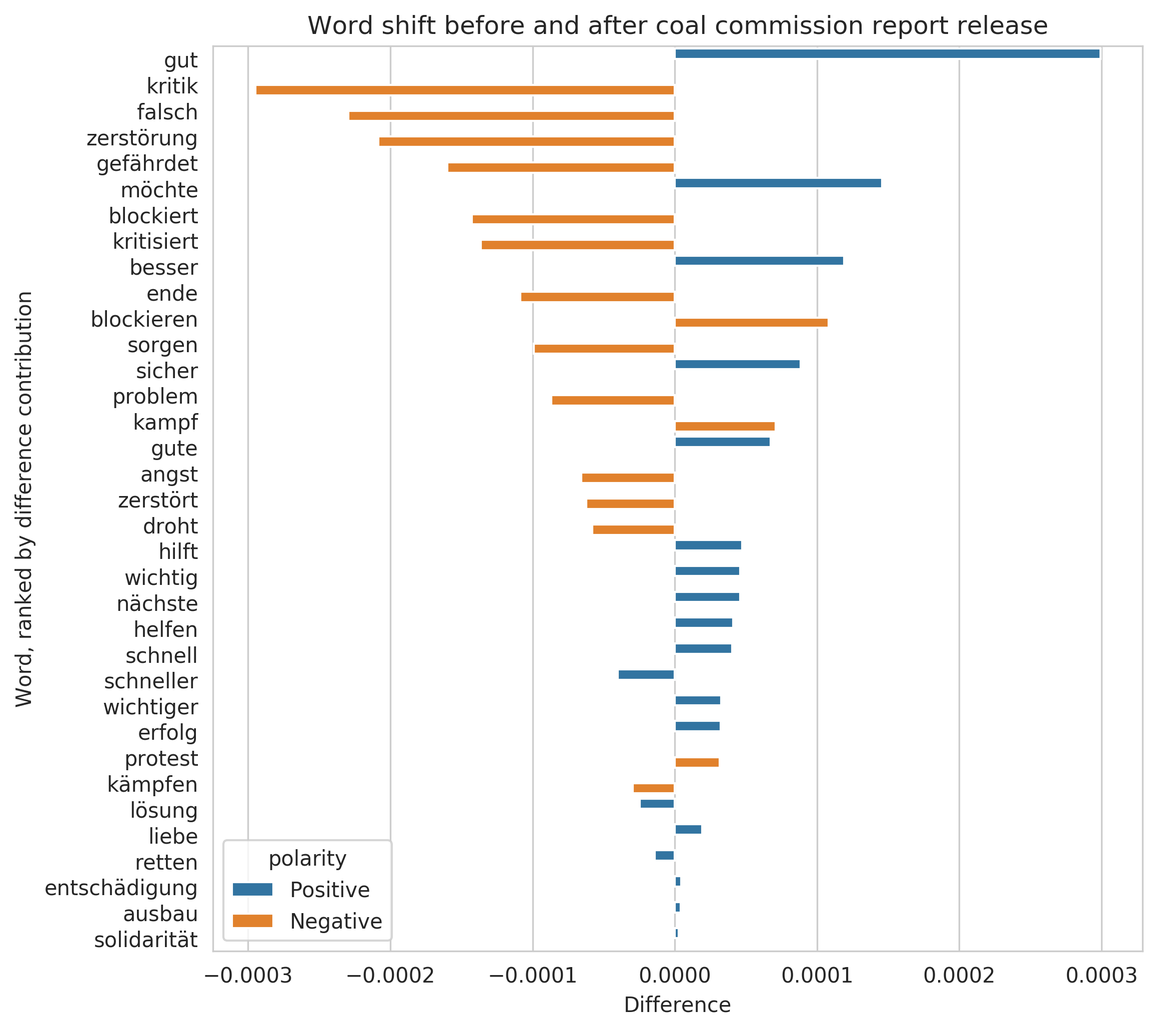
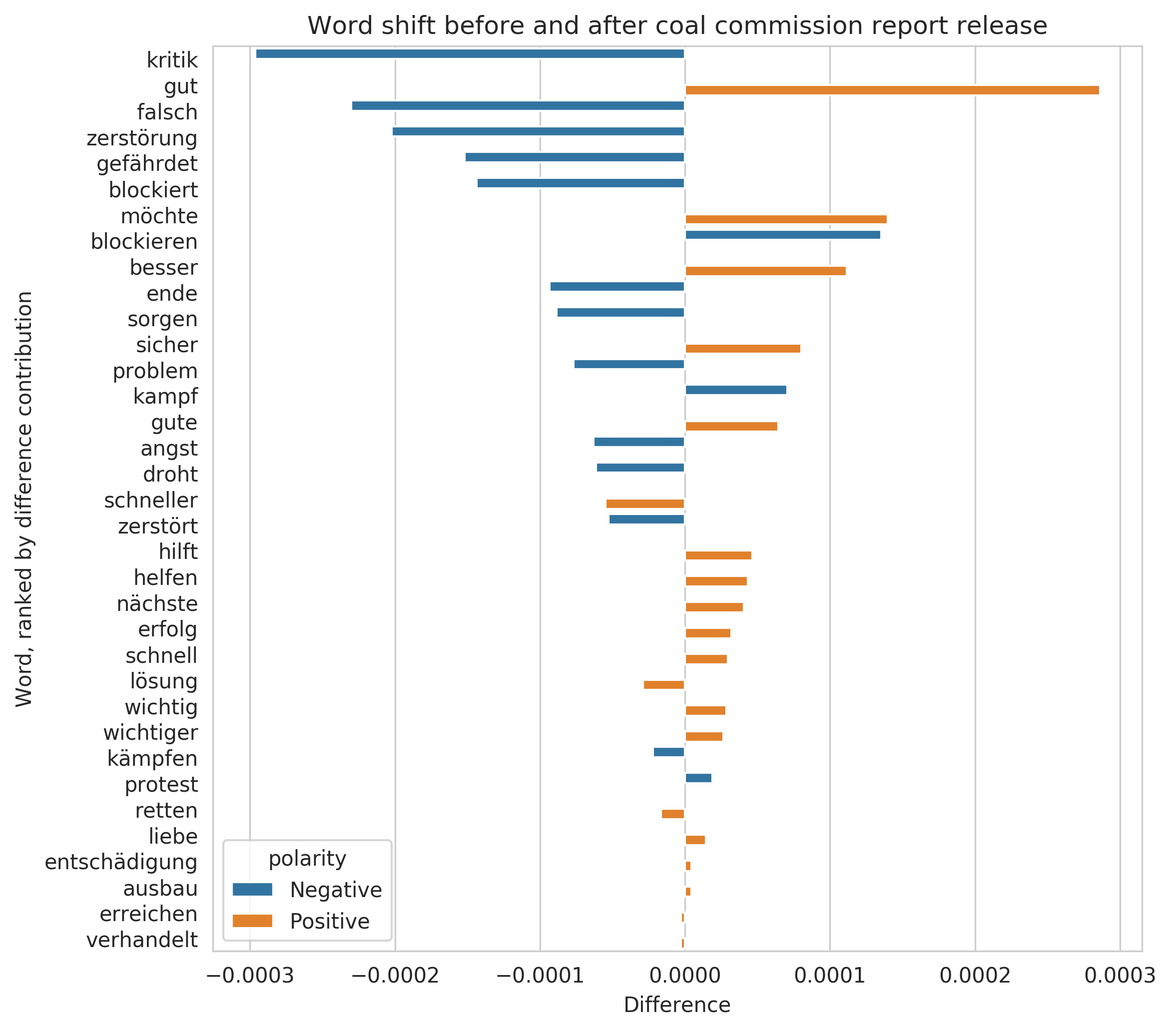
update writing

diff --git a/writing/4_analysis/analysis.tex b/writing/4_analysis/analysis.tex
@@ -5,6 +5,7 @@
 \usepackage{setspace}
 \usepackage{gensymb}
 \usepackage{csquotes}
+\usepackage{xcolor}
 
 \title{The German Coal Debate on Twitter: Reactions to a Corporate Decision-Making Policy Process}
 
@@ -202,18 +203,24 @@ Equation \ref{eq:text_difference} shows the difference between the normalised sc
 	\label{fig:tweet_score}
 \end{figure}
 
-Fig. \ref{fig:tweet_count_event_timeline} shows the daily count of tweets throughout the coal commission process against events throughout the same process. Fig. \ref{fig:tweet_score} shows the 7 day moving average of tweet scores in the coal and climate datasets. 
-
 \subsection*{Sentiment scores against time} 
-% [T: 750, C: 690]
-% overall trend negative
-Looking at Fig. \ref{fig:tweet_score}, the first observation that can be drawn is that the average sentiment scores of both coal and climate tweets decrease over time. For most of 2017, the average score of coal and climate tweets hover around zero. This average for the climate tweets starts to decrease from the beginning of 2018, and steadily declines throughout the process of the coal commission, and remains constant around -0.025 even after the conclusion of the coal commission process. For the coal tweets, the average drops from the beginning of 2018 and remains constant around the -0.025 score as well. This suggests that the language used in both coal and climate discussions become more negative over time, of which the coal commission could have had an effect on. 
+% [T: 900, C: 750]
+\subsubsection*{Negative trend} % overall trend negative
+Fig. \ref{fig:tweet_score} shows the 7 day moving average of tweet scores in the coal and climate datasets. Looking at Fig. \ref{fig:tweet_score}, the first observation that can be drawn is that the average sentiment scores of both coal and climate tweets decrease over time. For most of 2017, the average score of coal and climate tweets hover around zero. This average for the climate tweets starts to decrease from the beginning of 2018, and steadily declines throughout the process of the coal commission, and remains constant around -0.025 even after the conclusion of the coal commission process. For the coal tweets, the average drops from the beginning of 2018 and remains constant around the -0.025 score as well. 
 
-% similar before and after but not during 
-Another observation that can be made is that the shape of the coal and climate timeseries correlate quite well both before and after the process of the coal commission, but not during. Looking at Fig. \ref{fig:tweet_score}, by breaking down the dates into three periods -- i. January 2017 to December 2017, ii. January 2018 to April 2019 and iii. May 2019 to February 2020, the differences in the sentiment score timeseries can be dissected. The spikes in the coal and climate tweet sentiment scores follow quite closely to each other in the first period, as well as in the third. However, they differ greatly in the second period, largely due to the variation of scores in the coal debate. % add some numbers here to substantiate
+Regression analysis also shows that the two time series have a negative slope. The slope of the coal timeseries is $-1.91 \times 10^{-5}$ and the slope of the climate timeseries is $-2.64 \times 10^{-5}$. In order to perform linear regression on dates, the dates are first converted into ordinal numbers. This suggests that the language used in both coal and climate discussions become more negative over time, of which the coal commission could have had an effect on. 
+
+% linreg table?
+
+\subsubsection*{Variation in coal and climate scores} % similar before and after but not during 
+Another observation that can be made is that the shape of the coal and climate timeseries correlate quite well both before and after the process of the coal commission, but not during. Looking at Fig. \ref{fig:tweet_score}, by breaking down the dates into three periods -- i. January 2017 to December 2017, ii. January 2018 to April 2019 and iii. May 2019 to February 2020, the differences in the sentiment score timeseries can be dissected. The spikes in the coal and climate tweet sentiment scores follow quite closely to each other in the first period, as well as in the third. However, they differ greatly in the second period, largely due to the variation of scores in the coal debate. 
+% add some numbers here to substantiate
 
 % greater variation in coal compared to climate
-In addition to the timeseries trends, comparing the two sentiment score timeseries of coal and climate tweets, it can be seen that there is a larger variation in sentiment scores in the coal dataset compared to that of climate. This is evident across the entire time period of the dataset. Throughout 2017, the variation in climate scores is 0.057, compared to 0.116 in the scores of coal tweets. This difference increases in the period surrounding as well as during the coal commission process from January 2018 to April 2019, where the variation in climate tweet scores is 0.061, compared to 0.217 in the scores of coal tweets. The difference in variation of the tweet scores between the datasets declines after the coal commission process, with a variation of 0.048 in climate tweets and 0.096 in coal tweets from May 2019 to February 2020. % add something about there being more climate tweets and also how the variation is measured
+In addition to the timeseries trends, comparing the two sentiment score timeseries of coal and climate tweets, it can be seen that there is a larger variation in sentiment scores in the coal dataset compared to that of climate. This is evident across the entire time period of the dataset. Throughout 2017, the variation in climate scores is 0.057, compared to 0.116 in the scores of coal tweets. This difference increases in the period surrounding as well as during the coal commission process from January 2018 to April 2019, where the variation in climate tweet scores is 0.061, compared to 0.217 in the scores of coal tweets. The difference in variation of the tweet scores between the datasets declines after the coal commission process, with a variation of 0.048 in climate tweets and 0.096 in coal tweets from May 2019 to February 2020. 
+
+% add something about there being more climate tweets and also how the variation is measured
+% table on absolute variation
 
 Here, consensus could be measured using a proxy, through the variation in positive and negative tweet scores, where a large difference denotes less consensus and a smaller difference denotes a greater consensus. The sentiment score timeseries thus suggests that consensus in the coal debate decreased across the period surrounding the coal commission, compared to before and after. In contrast, the consensus in the climate debate remains relatively stable over time. 
 
@@ -233,8 +240,8 @@ Overall, analysis of the sentiment scores of the coal and climate debate on Twit
 
 
 \subsection*{Event Analysis}
-% [T: 1750, C: 1438] 
-In Fig. \ref{fig:tweet_count_event_timeline} and \ref{fig:tweet_score_event_timeline}, the date of significant events are overlaid on the same plot as the daily average sentiment score of tweets. Significant events from the coal commission process were taken from Clean Energy Wire's report on the events following the coal commission \cite{Amelang2019}. 
+% [T: 1600, C: 1550] 
+Fig. \ref{fig:tweet_count_event_timeline} shows the daily count of tweets throughout the coal commission process against events throughout the same process. In Fig. \ref{fig:tweet_count_event_timeline} and \ref{fig:tweet_score_event_timeline}, the date of significant events are overlaid on the same plot as the daily average sentiment score of tweets. Significant events from the coal commission process were taken from Clean Energy Wire's report on the events following the coal commission \cite{Amelang2019}. 
  
 \begin{figure*} 
 	\begin{center}
@@ -244,11 +251,11 @@ In Fig. \ref{fig:tweet_count_event_timeline} and \ref{fig:tweet_score_event_time
 	\label{fig:tweet_score_event_timeline}
 \end{figure*}
 
-A further look at specific events in Fig. \ref{fig:tweet_count_event_timeline} show that there is an uptick in the frequency of tweets when significant events take place. In particular, the day with the most number of tweets in the dataset was on the 26th of January 2019, which was when the coal commission released its final report with recommendations on how to manage the coal phase-out in Germany. The average number of tweets made per day is also higher in the period surrounding the coal commission process at XX per day compared to before (XX) and after (XX). 
+A further look at specific events in Fig. \ref{fig:tweet_count_event_timeline} show that there is an uptick in the frequency of tweets when significant events take place. In particular, the day with the most number of tweets in the dataset was on the 26th of January 2019, which was when the coal commission released its final report with recommendations on how to manage the coal phase-out in Germany. {\color{red}The average number of tweets made per day is also higher in the period surrounding the coal commission process at XX per day compared to before (XX) and after (XX).}
 
 Looking at Fig. \ref{fig:tweet_score_event_timeline}, however, the variation in sentiment scores across time show that the tweets are not necessarily more extreme on the sentiment scale across the entire coal commission period. Rather, there are specific spikes in the scores slightly before the establishment of the coal commission, during the process of the coal commission, as well as after the conclusion of the coal commission with the release of its report. 
 
-\subsubsection*{Positive Peaks} % positive peaks
+\subsubsection*{Positive Peaks} 
 In Fig. \ref{fig:tweet_score_event_timeline}, there is only one large positive peak, on 11 April 2019. Analysis of the coal debate reveal that there was one specific tweet with a high sentiment score of 0.358 with 1100 retweets that was driving the high average tweet score for that day.  
 
 \begin{displayquote}
@@ -288,9 +295,11 @@ Looking at the content of the tweet, the message is clear -- coal is postured as
 
 The two cases highlight the different ways of communication on Twitter. One, as in the case of the tweet about the Hambach forest, is through retweets, which propagates across many different groups of people on Twitter as each user's retweet will appear on their followers' timeline. Another, as in the case of the tweet originating from the website of WWF Germany, shows how Twitter is used as a medium for other people to share information from other sources on the Internet. 
 
+In both cases, however, the negative sentiment arises from the usage of negative language to express the severity of the coal exit on the environment. In the first example, it is negative sentiment comes from how a lack of a coal exit will result in further forest clearings, impacting biodiversity negatively and leading to more carbon emissions. In the second, the negative sentiment comes from criticising the environmental and health ill-effects of coal. 
+
 \subsubsection*{Word Shift}
-% [T: 750, C: 400]
-In order to understand how the debate evolved over time, the tweet dataset used so far is split into two categories by date -- before the establishment of the coal commission and after. The tweets that were made after the coal commission was established are then analysed in comparison to the tweets that were made before the coal commission's establishment. This presents an opportunity to look at how the debate changed over time, whether the focus of the debate had changed after the coal commission began its decision-making process, and how public sentiment changed over the course of the same process. 
+% [T: 850, C: 888]
+In order to understand how the debate evolved over time, the tweet dataset used so far is split into two categories by date -- before the release of the report of the coal commission and after. The tweets that were made after the coal commission released its final report are then analysed in comparison to the tweets that were made before the report's release. This presents an opportunity to look at how the debate changed over time, whether the focus of the debate had changed after the coal commission began its decision-making process, and how public sentiment changed over the course of the same process. 
 
 To look at how the language and sentiment changed over time, a method known as ``word valence shift graphs'', first used in \cite{Dodds2011}, is employed. To do so, words are ranked by their absolute contributions to the change in average sentiment of one group relative to another. As detailed in the methods section, the top words driving the differences in the texts between the two periods are identified by finding the absolute differences in the product of the word frequency and word polarity in the two periods. The results are then plotted in Fig. \ref{fig:wordshift_coalcomm_report}. 
 
@@ -298,63 +307,84 @@ To look at how the language and sentiment changed over time, a method known as `
 % plus a zoom in on the sentiment score in that period 
 \begin{figure*} 
 	\begin{center}
-		\includegraphics[width=0.8\linewidth]{figures/wordshift_coalcomm_report}
+		\includegraphics[width=\linewidth]{figures/wordshift_coalcomm_report_composite}
 	\end{center}
-	\caption{Word shift graph comparing tweets made before and after the release of the report of the coal commission\footnotemark}
+	\caption{\textbf{Word shift graph comparing tweets made before and after the release of the report of the coal commission.} The reference text is roughly 112000 tweets from the coal dataset from 1 January 2017 to 25 January 2019. The comparison texts is roughly 113000 tweets from the coal dataset from 26 January 2019 to February 29 2020. An orange bar indicates a word with a positive polarity score. A blue bar indicates a word with a negative polarity score. Words on the right side are contributing to an increase in positive sentiment after the release of the coal commission report. Words on the left side are contributing to an increase in negative sentiment after the release of the coal commission report. Words with a blue bar on the left side of the graph and words with an orange bar on the right side of the graph are more prevalent in the tweets before the release of the coal commission's report. Words with a blue bar on the right side of the graph and words with an orange bar on the left side of the graph are more prevalent in tweets after the release of the coal commission's report. The subplot on the right shows the split in total word scores before and after the release of the coal commission report, sorted by word polarity. \footnotemark}
 	\label{fig:wordshift_coalcomm_report}
 \end{figure*}
 \footnotetext{Translation: good, criticism, wrong, destruction, endangered, wants, blocked, criticized, better, end, block, worry, safe, problem, fight, good, fear, destroyed, threatened, helps, important, next, help, fast, faster, more important, success, protest, fight, solution, love, save, compensation, expansion, solidarity}
 
-\begin{figure*} 
-	\begin{center}
-		\includegraphics[width=0.3\linewidth]{figures/wordshift_coalcomm_report_totalscores}
-	\end{center}
-	\caption{Total scores of words before and after the release of the coal commission report, sorted by word polarity}
-	\label{fig:wordshift_coalcomm_report_totalscores}
-\end{figure*}
-
 Looking at Fig. \ref{fig:wordshift_coalcomm_report}, the first observation is that there are some very similar words on the list, for example ``gut''/``gute''\footnote{Translation: good} and ``zerstörung''/``zerstört''\footnote{Translation: destruction}, which are essentially different forms of the same word. This is a feature of the German language, and will be discussed in a later section. 
 
-% discuss word shift balances, what is driving
-In Fig. \ref{fig:wordshift_coalcomm_report}, the words are labelled by colour according to their individual polarity. In Fig. \ref{fig:wordshift_coalcomm_report_totalscores}, we can see that there is an increase in both negative words as well as positive words. This helps to explain why, looking at the sentiment score on 26 January 2020, there does not appear to be a significant difference in the score compared to the periods immediately before and after. 
+% discuss word shift balances
+In Fig. \ref{fig:wordshift_coalcomm_report}, the words are labelled by colour according to their individual polarity. In Fig. \ref{fig:wordshift_coalcomm_report}, we can see that the usage of both negative words as well as positive words is more common in the tweets made before the release of the coal commission's report. This suggests that there was a fiercer debate on coal during the period of the coal commission, as opposed to after, when it released its final results. 
+
+The split in the balance of scores arising from positive and negative words, before and after the release of the coal commission's report, however, suggest that there is an increase in polarisation of sentiments on Twitter after the coal commission process. This helps to explain why, looking at the sentiment score on 26 January 2020, there does not appear to be a significant difference in the score compared to the periods immediately before and after. 
 
 % word shift climate
-In addition, in order to understand the debate on the German coal exit on Twitter, it is necessary to compare it to other debates on Twitter. Here, the climate debate is used as a reference. 
+In addition, in order to understand the debate on the German coal exit on Twitter, it is necessary to compare it to other debates on Twitter. Here, the climate debate is used as a reference. Fig. \ref{fig:wordshift_coal_climate} shows the word shift graph comparing the coal tweets against the climate tweets. In terms of the words that are driving the differences between the two datasets, the trends are largely similar to that in the previous figure comparing the tweets before and after the release of the coal commission's report. This means that positive and negative words both tend to appear more often in the climate dataset compared to coal. 
+
+In addition, the split in the balance of scores arising from positive and negative words between coal and climate tweets suggest that overall, sentiments in coal tweets are less polarised compared to that of climate tweets. This is not immediately apparent from the sentiment score timeseries plots, as those show the daily average sentiment score. This suggests that there might be more consensus on the coal debate on Twitter as compared to climate, which is not a surprising result as the coal debate can be considered as a sub-debate within the climate debate, which encompasses other topics. 
 
 \begin{figure*} 
 	\begin{center}
-		\includegraphics[width=0.8\linewidth]{figures/wordshift_coal_climate}
+		\includegraphics[width=\linewidth]{figures/wordshift_coal_climate_composite}
 	\end{center}
-	\caption{Word shift graph comparing coal tweets to climate tweets}
+	\caption{\textbf{Word shift graph comparing coal tweets to climate tweets.}}
 	\label{fig:wordshift_coal_climate}
 \end{figure*}
 
 
 \subsubsection*{Network Analysis}
-% [T: 750, C: 270]
-Another way of analysing the evolution of the coal debate on Twitter is to look at the retweet network of the dataset. In Twitter, a retweet refers to a re-post of a tweet, where another user chooses to share another user's tweet on their personal timeline. By taking Twitter users as nodes and retweets as edges, we can construct a retweet network and see which users retweet the most often from other users. From this, the community structure of the network can also be determined. The community structure of a network refers to the appearance of densely connected groups of vertices, with only sparser connections between groups \cite{Newman8577}. The strength of a community structure can be measured by its modularity, which is a measure of the extent to which like is connected to like in a network. It takes a value that is strictly less than 1, and it is positive if there are more edges between vertices of the same type than would be expected by chance, and negative if there are less [CITE]. % cite Newman textbook here
+% [T: 750, C: 480]
+% should some of this go to Method instead?
+Another way of analysing the evolution of the coal debate on Twitter is to look at the retweet network of the dataset. In Twitter, a retweet refers to a re-post of a tweet, where another user chooses to share another user's tweet on their personal timeline. By taking Twitter users as nodes and retweets as edges, we can construct a retweet network and see which users retweet the most often from other users. From this, the community structure of the network can also be determined. 
+
+The community structure of a network refers to the appearance of densely connected groups of vertices, with only sparser connections between groups \cite{Newman8577}. The goal of most community detection algorithms, implicit or explicit, is to find the best trade-off between a large intra-cluster density and a small inter-cluster density. The strength of a community structure can be measured by its modularity, which is a measure of the extent to which like is connected to like in a network. It takes a value that is strictly less than 1, and it is positive if there are more edges between vertices of the same type than would be expected by chance, and negative if there are less \cite{Newman8577}. Modularity is defined as: 
 
 \begin{equation}
 \label{eq:modularity}
 Q = \frac{1}{2m} \sum_{i,j} \left(A_{ij} - \frac{k_i k_j} {2m}\right) \delta (c_i c_j)
 \end{equation} 	
 
+where $m$ is the total number of edges in the network, $A_{ij}$ are the elements of the adjacency matrix, or the number of edges between vertices $i$ and $j$, $c_i$ is the label of the community to which the node i is assigned, and $k_i$ is the degree of node i. 
+
+Community detection algorithms perform maximisation of modularity, and from the definition of modularity above, a good partitioning of a network is therefore one in which there are fewer than expected edges between the communities. 
+
+In this study, the fast-greedy community detection algorithm is used \cite{Clauset2004}. It is a popular algorithm for large networks due to its low computational cost and operates via hierarchical agglomeration. 
+
 \begin{figure*} 
 	\begin{center}
-		\includegraphics[width=\linewidth]{figures/rt_network_ht_period4}
+		\includegraphics[width=0.8\linewidth]{figures/rt_network_ht_period4}
 	\end{center}
 	\caption{Retweet network for period before release of coal commission report}
 	\label{fig:rt_network_bef}
 \end{figure*}	
+
 \begin{figure*} 
 	\begin{center}
-		\includegraphics[width=\linewidth]{figures/rt_network_ht_period3}
+		\includegraphics[width=0.8\linewidth]{figures/rt_network_ht_period3}
 	\end{center}
 	\caption{Retweet network for period after release of coal commission report}
 	\label{fig:rt_network_aft}
 \end{figure*}
 
-Fig. \ref{fig:rt_network_bef} and \ref{fig:rt_network_aft} show the two retweet networks of the period before and after the release of the coal commission's report respectively. Within each network, for communities with 500 nodes or more, the top 5 hashtags that are used in the community are also displayed.  
+Fig. \ref{fig:rt_network_bef} and \ref{fig:rt_network_aft} show the two retweet networks of the period before and after the release of the coal commission's report respectively. Within each network, for communities with 500 nodes or more, the top 5 hashtags that are used in the community are also displayed. Looking at Table \ref{table:rt_network_mod}, the modularity scores are not significantly different from each other before and after the release of the coal commission report. This suggests that there has not been much change in the community structure of the retweet networks. 
+
+
+
+\begin{table}[htbp]
+\begin{center}
+	\caption{Modularity scores of coal retweet networks for the entire period, before the release of the coal commission's report and after the release of the coal commission's report}
+	\label{table:rt_network_mod}
+	\begin{tabular}{| l | p{2.5cm} | p{2.5cm} | l |}
+		\hline
+		Period & Before release of coal commission report & After release of coal commission report & Overall \\ \hline
+		Modularity score & 0.500 & 0.497 & 0.470 \\ \hline
+	\end{tabular}
+\end{center}
+\end{table}
+
 
 \section*{Discussion} \label{sec:discussion}
 \subsection*{Limitations}
@@ -371,20 +401,40 @@ No one method of sentiment analysis can replicate something that is fully manual
 
 \subsubsection*{The German Language} 
 % limitations of language analysis in German 
-% [T: 500, C: ]
+% [T: 300, C: 300]
+Majority of the work done on sentiment analysis is conducted on the English language. In this study, the analysis is done on tweets in German as the policy case study is in Germany. There is one drawback of analysing German text with a dictionary-based approach of sentiment analysis -- compound words are a significant feature of the language, while dictionary methods typically only contain the root words. As a result, the method used here in this study will not pick up compound words. This is because the method of splitting sentences into words here is to identify the spaces in the words. Compound words will thus not be identified as they will not match either of the root words when the words in the sentences are matched to entries in the SentiWS dictionary. 
 
-Majority of the work done on sentiment analysis is conducted on the English language. In this study, the analysis is done on tweets in German as the policy case study is in Germany. 
+Another feature of the German language is the use of declension. German declension is the paradigm used by the language to define all the ways articles, adjectives and sometimes nouns can change their form to reflect their role in the sentence: subject, object, etc. The ending of words can therefore take different forms, depending on the language case or grammatical gender in use. Within SentiWS, this is accounted for -- Fig. \ref{fig:sentiws_example} shows that for each root word, there are also its inflections in the same entry. Therefore, when a word is identified in the sentiment analysis process, so will all of its inflections, and all word forms will have the same polarity score. However, in the supporting analysis of word shifts, a simple frequency method is used to identify the top words driving the differences between texts, hence all the word forms are distinguishable. This can be seen in Fig. \ref{fig:wordshift_coalcomm_report} and Fig. \ref{fig:wordshift_coal_climate} where multiple word forms of the same root word appear. 
 
 \subsubsection*{Social Media data} 
 % drawbacks of using social media data, how to handle 
-% [T: 500, C: ]
-%% emojis
+% [T: 700, C: 700]
+In addition to the limitations of a lexicon-based sentiment analysis method as well as the difficulties in analysing the German language, the biggest consideration when evaluating this study is the source of the data: Twitter. Twitter is a form of social media, and while using social media data offers many benefits as an alternative to conventional surveys in measuring public opinion, it also has several limitations as well. 
+
+Firstly, the assumption that Twitter posts represent an honest expression of public opinion may not necessarily hold true. The public nature of social media could induce a stronger social desirability bias than in the context of traditional survey responses, but the extent to which this occurs is unknown \cite{Klasnja2018}. 
+
+% representativeness 
+In comparison to traditional surveys, one crucial advantage that is lost with social media is the opportunity to control the sampling frame. Traditional surveys attempt to guarantee a known probability of any individual in the population being asked a survey question. With social media, however, the sampling is random, and thus it is not known the likelihood that someone has been asked a ``question'', nor the likelihood of a response \cite{Klasnja2018}. In analysing public opinion on social media, researchers do not ask the ``respondents'' a question, but rather depend on participants to reveal their opinion. This may raise an issue with the representativeness of the responses, as the set of people offering unprompted opinions on a topic may be more passionate or different in many ways from the set of people who offer opinions on that topic when explicitly asked. There is thus a big missing data problem when trying to analyse public opinion on Twitter, and results from Twitter cannot be generalised directly from Twitter responses to standard survey populations of interest. 
+
+Furthermore, Twitter users are not representative of national populations, something that is well documented [CITE]. In the United States, it has been found that the most populous counties are overrepresented [CITE], and there are also significant biases towards younger users and users of higher income when comparing geotagged tweets and census data [CITE]. Evaluating the representativeness of Twitter users in Germany, however, is not straightforward, as Twitter does not record precise demographic information. Analysis of the geographic representation of users in Germany contributing to policy topics on Twitter reveal that there is a higher concentration of users in constituencies of high population density such as Berlin, Hamburg, Munich, and Cologne [CITE], but it is unclear whether these figures are representative of the national population. As such, in this study, there has not been an attempt to generalise the results about the coal debate on Twitter to the national coal debate, as there is not enough information about the user demographics on Twitter to be able to make these generalisations. 
+
+% slang, emojis 
+Another aspect of analysing social media data is the language differences used on social media. Texts in social media are often short, and thus using a dictionary that is trained using general texts like SentiWS might not be appropriate as it does not have sufficient aggregated information to measure the overall sentiment of a post. Moreover, slang and colloquial language is often used on social media, comprising new expressions that may not be represented on standard dictionaries. The short, unstructured, fast-evolving, and domain-specific nature of posts on social media mean that it is difficult to apply general language analysis tools to social media posts \cite{Hu2013}. 
+
+In addition to the usage of slang on social media, the use of emoticons are also prevalent on social media. Emoticons are primarily face-based and represent happy or sad feelings, although a wide range
+of non-facial variations exist: for instance, <3 represents a heart and expresses love or affection. In the simplest form of a dictionary-based methods for sentiment analysis, emoticons are discarded when pre-processing the text, and thus could lead to the loss of valuable information when aggregating sentiment. One way to tackle this is to extract polarity from emoticons, and attach a polarity weight to each emoticon. This can then be used in combination with the dictionary method to get a better overall sentiment score for a tweet. However, issues remain as to how to scale the polarity of emoticons, which can be subjective across different users. 
 
 \subsection*{Policy Implications} 
 % Implications of findings 
 % [T: 1K, C: ]
+% Increasingly negative sentiment 
+
+% Unpopular?
+
+% No consensus? 
 
 
+\section*{Conclusion} \label{sec:conclusion}
 
 %%% END TEXT %%%
 
